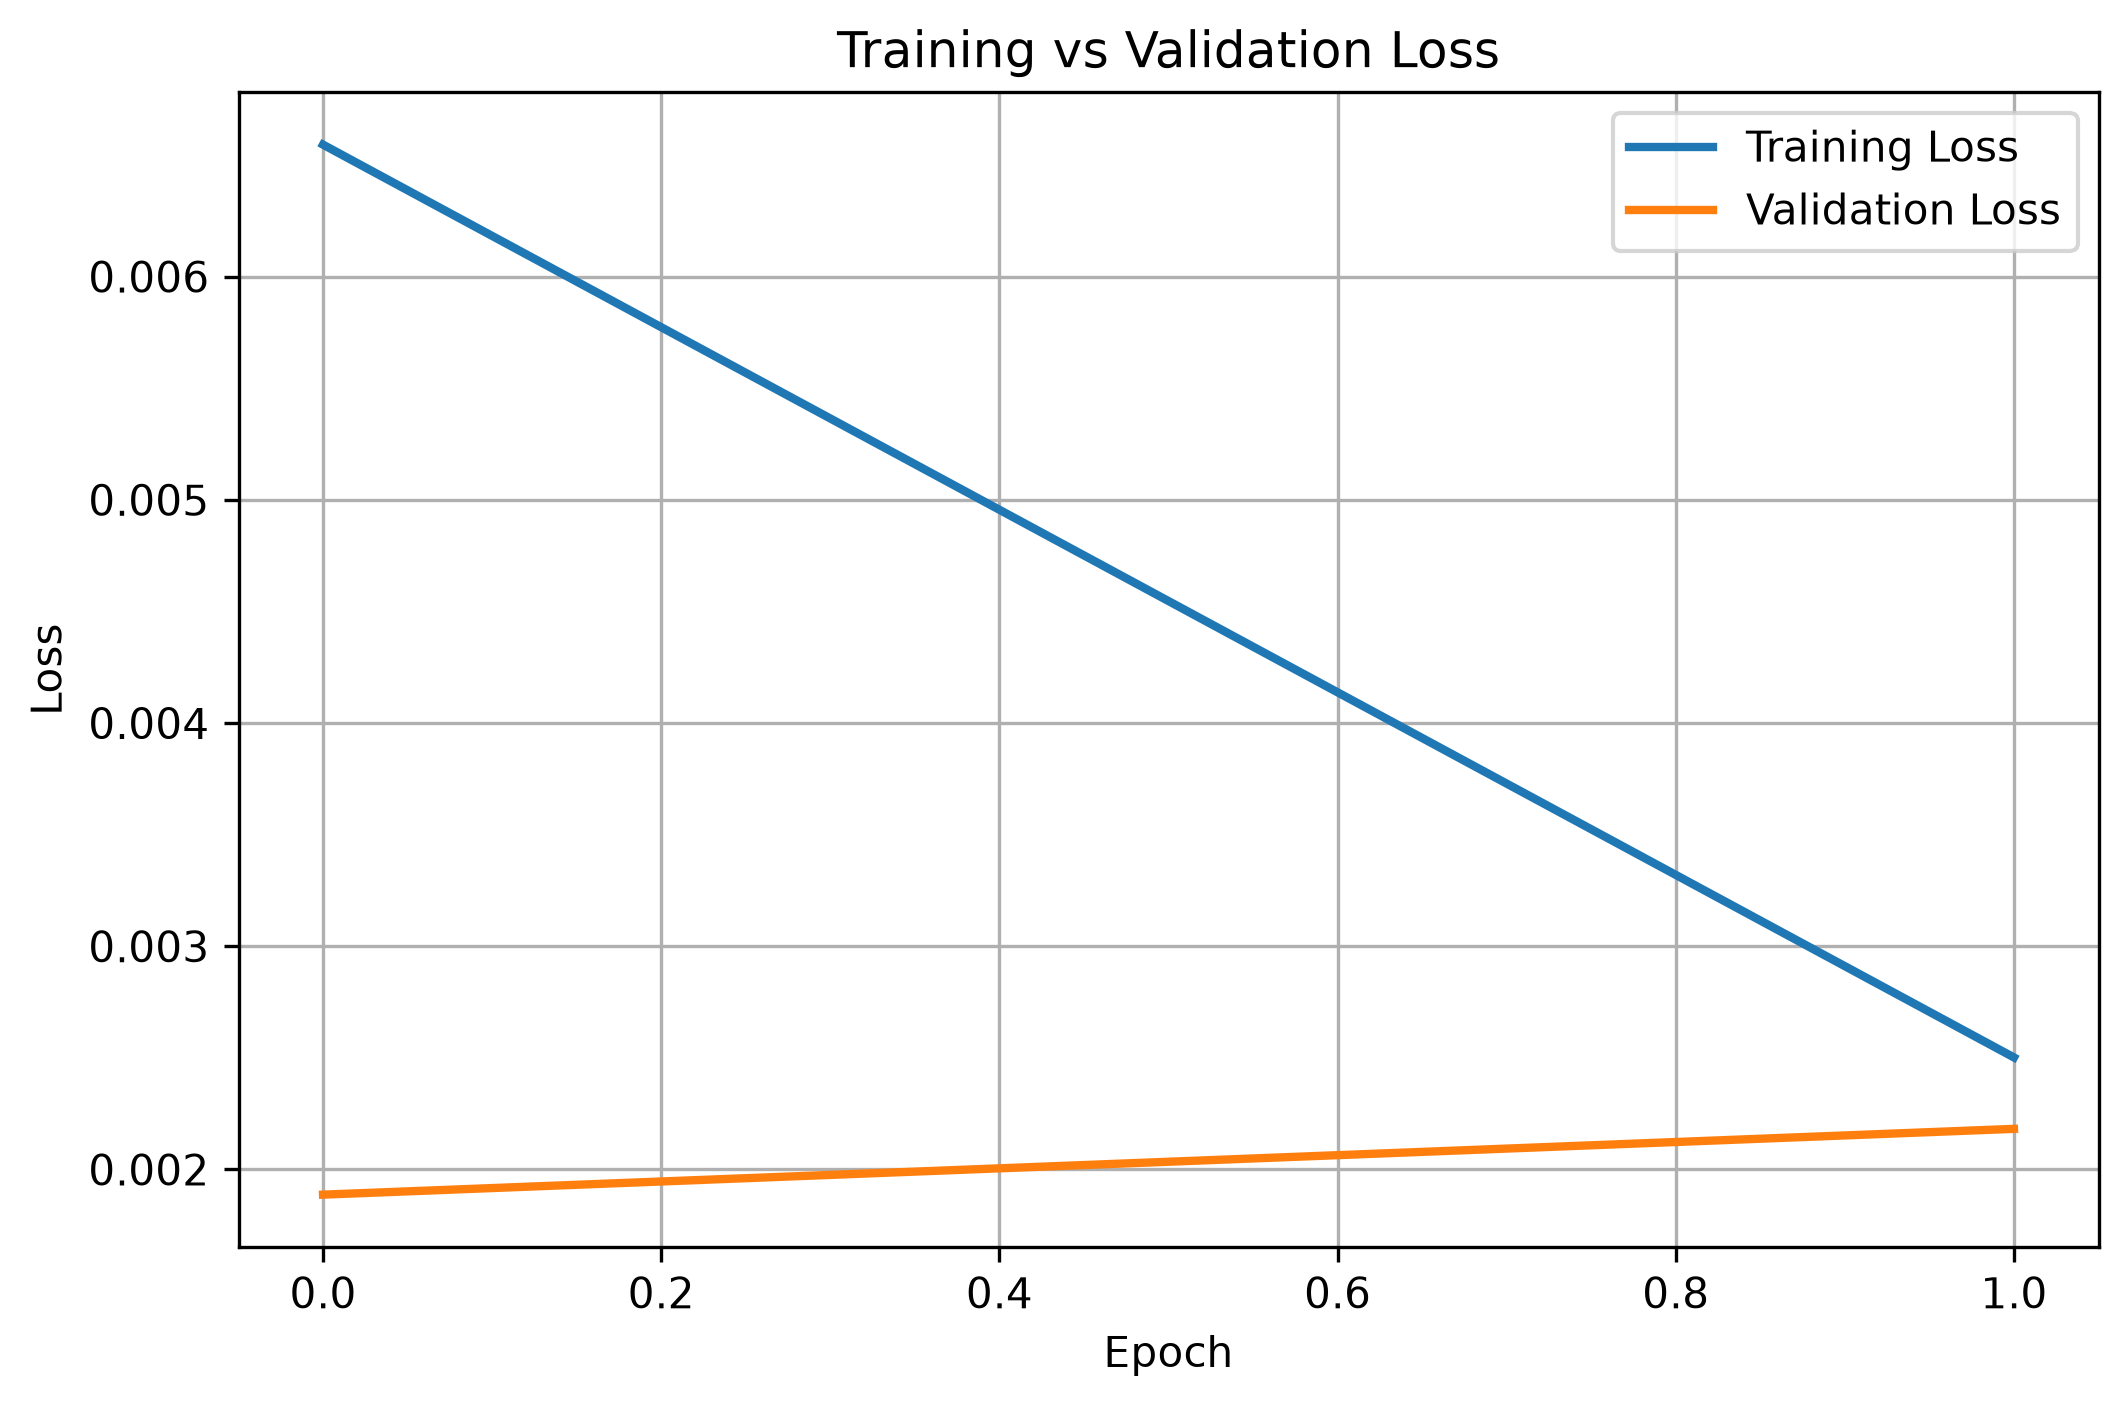
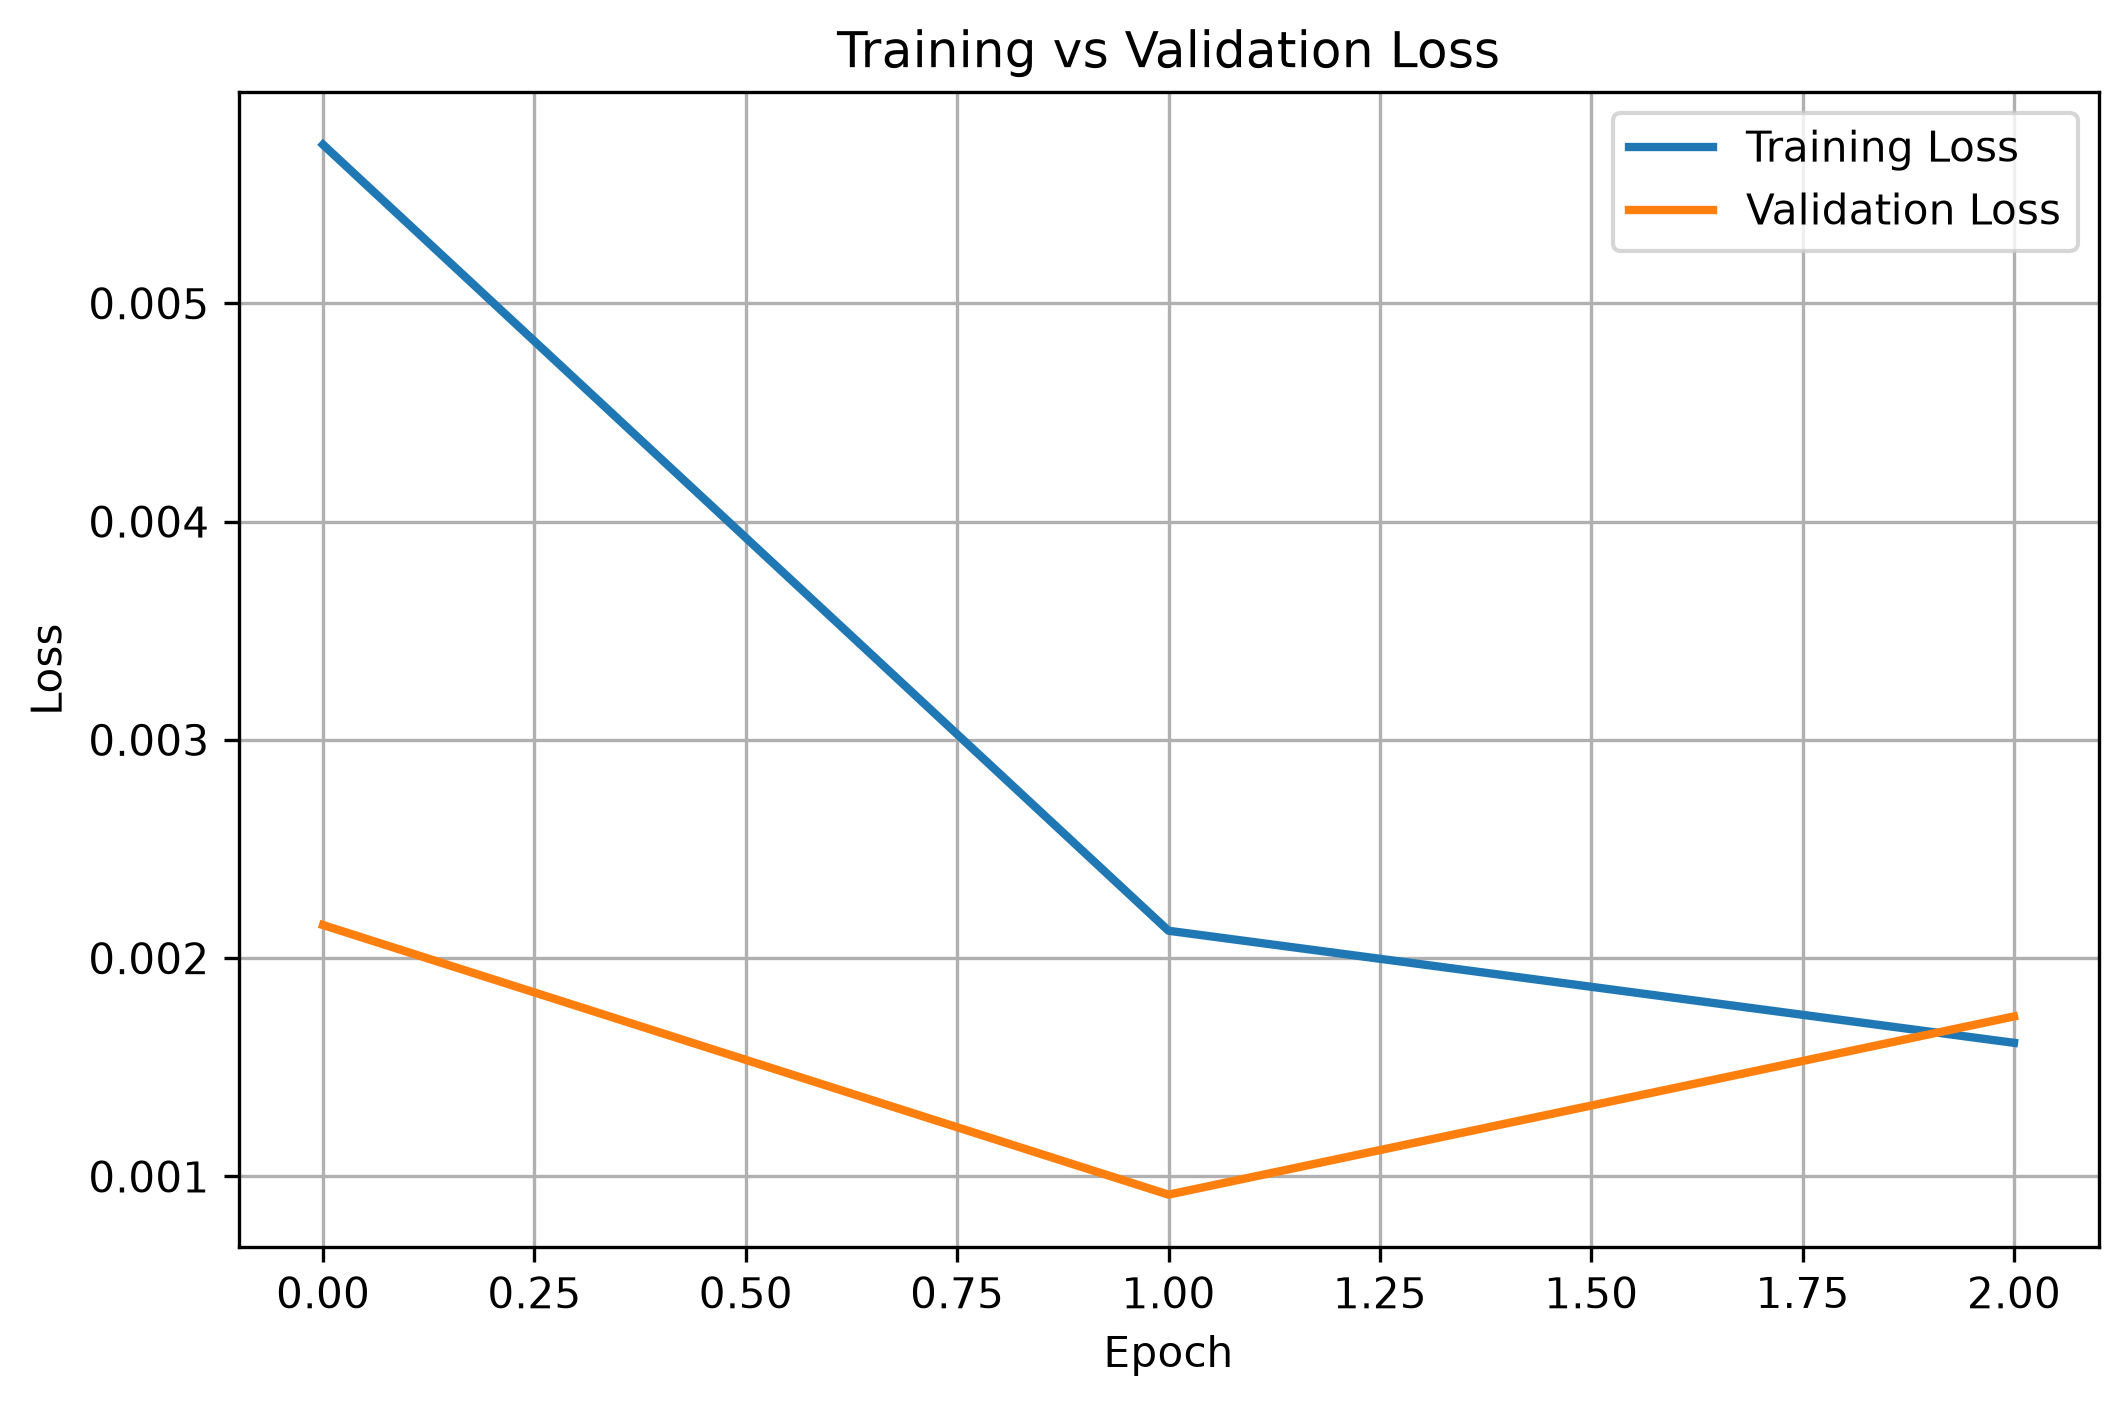
implement data loading pipeline, augmentation transforms, and model inference utility for face landmark detection

diff --git a/app/dataset.py b/app/dataset.py
@@ -2,15 +2,16 @@ import os
 import xml.etree.ElementTree as ET
 
 import numpy as np
-from PIL import Image
-
 import torch
+
+from PIL import Image
 from torch.utils.data import Dataset
 
 from app.transforms import get_train_transforms
 
 
 class FaceLandmarkDataset(Dataset):
+
     def __init__(
         self,
         xml_file,
@@ -18,7 +19,9 @@ class FaceLandmarkDataset(Dataset):
         image_size=224,
         transform=None,
     ):
+
         self.root_dir = root_dir
+        self.image_size = image_size
 
         if transform is None:
             transform = get_train_transforms(image_size)
@@ -32,39 +35,47 @@ class FaceLandmarkDataset(Dataset):
         self._load_annotations(xml_file)
 
     def _load_annotations(self, xml_file):
+
         tree = ET.parse(xml_file)
         root = tree.getroot()
 
         images = root.find("images")
 
         if images is None:
-            raise ValueError("Could not find <images> in XML file.")
+            raise ValueError("Could not find <images> in XML.")
 
         for image in images.findall("image"):
 
             image_path = os.path.join(
                 self.root_dir,
-                image.attrib["file"]
+                image.attrib["file"],
             )
 
             box = image.find("box")
 
-            left = int(box.attrib["left"])
-            top = int(box.attrib["top"])
-            width = int(box.attrib["width"])
-            height = int(box.attrib["height"])
+            left = int(float(box.attrib["left"]))
+            top = int(float(box.attrib["top"]))
+            width = int(float(box.attrib["width"]))
+            height = int(float(box.attrib["height"]))
 
             points = []
 
             for part in box.findall("part"):
+
                 x = float(part.attrib["x"])
                 y = float(part.attrib["y"])
-                points.append([x, y])
+
+                points.append((x, y))
 
             self.image_paths.append(image_path)
             self.landmarks.append(points)
             self.bounding_boxes.append(
-                (left, top, width, height)
+                (
+                    left,
+                    top,
+                    width,
+                    height,
+                )
             )
 
     def __len__(self):
@@ -76,18 +87,39 @@ class FaceLandmarkDataset(Dataset):
             self.image_paths[index]
         ).convert("L")
 
+        image = np.array(image)
+
         left, top, width, height = self.bounding_boxes[index]
 
-        image = image.crop(
-            (
-                left,
-                top,
-                left + width,
-                top + height,
-            )
+        # -------------------------------------------------
+        # Expand bounding box (20% padding)
+        # -------------------------------------------------
+
+        padding = 0.20
+
+        pad_x = int(width * padding)
+        pad_y = int(height * padding)
+
+        left = max(0, left - pad_x)
+        top = max(0, top - pad_y)
+
+        right = min(
+            image.shape[1],
+            left + width + (2 * pad_x),
         )
 
-        image = self.transform(image)
+        bottom = min(
+            image.shape[0],
+            top + height + (2 * pad_y),
+        )
+
+        image = image[
+            top:bottom,
+            left:right,
+        ]
+
+        crop_w = right - left
+        crop_h = bottom - top
 
         landmarks = np.array(
             self.landmarks[index],
@@ -97,8 +129,42 @@ class FaceLandmarkDataset(Dataset):
         landmarks[:, 0] -= left
         landmarks[:, 1] -= top
 
-        landmarks[:, 0] /= width
-        landmarks[:, 1] /= height
+        transformed = self.transform(
+            image=image,
+            keypoints=landmarks.tolist(),
+        )
+
+        image = transformed["image"]
+
+        landmarks = np.array(
+            transformed["keypoints"],
+            dtype=np.float32,
+        )
+
+        # -------------------------------------------------
+        # Normalize using transformed image dimensions
+        # -------------------------------------------------
+
+        _, h, w = image.shape
+
+        landmarks[:, 0] /= w
+        landmarks[:, 1] /= h
+
+        # -------------------------------------------------
+        # Keep coordinates inside image
+        # -------------------------------------------------
+
+        landmarks[:, 0] = np.clip(
+            landmarks[:, 0],
+            0.0,
+            1.0,
+        )
+
+        landmarks[:, 1] = np.clip(
+            landmarks[:, 1],
+            0.0,
+            1.0,
+        )
 
         landmarks = torch.tensor(
             landmarks,

diff --git a/app/transforms.py b/app/transforms.py
@@ -1,23 +1,42 @@
-from torchvision import transforms
+import albumentations as A
+from albumentations.pytorch import ToTensorV2
 
 
 def get_train_transforms(image_size=224):
-    return transforms.Compose([
-        transforms.Resize((image_size, image_size)),
-        transforms.ToTensor(),
-        transforms.Normalize(
-            mean=[0.5],
-            std=[0.5],
+
+    return A.Compose(
+        [
+            A.Resize(image_size, image_size),
+
+            A.Normalize(
+                mean=(0.5,),
+                std=(0.5,),
+            ),
+
+            ToTensorV2(),
+        ],
+        keypoint_params=A.KeypointParams(
+            format="xy",
+            remove_invisible=False,
         ),
-    ])
+    )
 
 
 def get_test_transforms(image_size=224):
-    return transforms.Compose([
-        transforms.Resize((image_size, image_size)),
-        transforms.ToTensor(),
-        transforms.Normalize(
-            mean=[0.5],
-            std=[0.5],
+
+    return A.Compose(
+        [
+            A.Resize(image_size, image_size),
+
+            A.Normalize(
+                mean=(0.5,),
+                std=(0.5,),
+            ),
+
+            ToTensorV2(),
+        ],
+        keypoint_params=A.KeypointParams(
+            format="xy",
+            remove_invisible=False,
         ),
-    ])
+    )

diff --git a/tests/test_visualize_dataset.py b/tests/test_visualize_dataset.py
@@ -1,0 +1,47 @@
+import matplotlib.pyplot as plt
+import torch
+
+from app.dataset import FaceLandmarkDataset
+
+
+def main():
+
+    dataset = FaceLandmarkDataset(
+        xml_file="data/labels_ibug_300W_train.xml",
+        root_dir="data",
+        image_size=224,
+    )
+
+    image, landmarks = dataset[0]
+
+    image = image.squeeze().numpy()
+
+    landmarks = landmarks.numpy()
+
+    plt.figure(figsize=(6, 6))
+
+    plt.imshow(image, cmap="gray")
+
+    print(
+        landmarks.min(),
+        landmarks.max(),
+    )
+
+    for x, y in landmarks:
+
+        plt.scatter(
+            x * 224,
+            y * 224,
+            c="red",
+            s=10,
+        )
+
+    plt.title("Augmented Training Sample")
+
+    plt.axis("off")
+
+    plt.show()
+
+
+if __name__ == "__main__":
+    main()

diff --git a/app/inference.py b/app/inference.py
@@ -1,7 +1,6 @@
 import cv2
 import numpy as np
 import torch
-from PIL import Image
 
 from app.transforms import get_test_transforms
 from models.resnet import FaceLandmarkModel
@@ -27,7 +26,6 @@ class LandmarkPredictor:
         )
 
         self.model.to(self.device)
-
         self.model.eval()
 
         self.transform = get_test_transforms(224)
@@ -35,19 +33,30 @@ class LandmarkPredictor:
     @torch.no_grad()
     def predict(self, face):
 
+        # Convert BGR → Grayscale
         gray = cv2.cvtColor(
             face,
             cv2.COLOR_BGR2GRAY,
         )
 
-        pil = Image.fromarray(gray)
+        # Albumentations expects numpy array
+        transformed = self.transform(
+            image=gray,
+        )
 
-        tensor = self.transform(pil)
+        tensor = transformed["image"]
 
-        tensor = tensor.unsqueeze(0).to(self.device)
+        tensor = tensor.unsqueeze(0).to(
+            self.device
+        )
 
         prediction = self.model(tensor)
 
-        prediction = prediction.squeeze().cpu().numpy()
+        prediction = (
+            prediction
+            .squeeze(0)
+            .cpu()
+            .numpy()
+        )
 
         return prediction